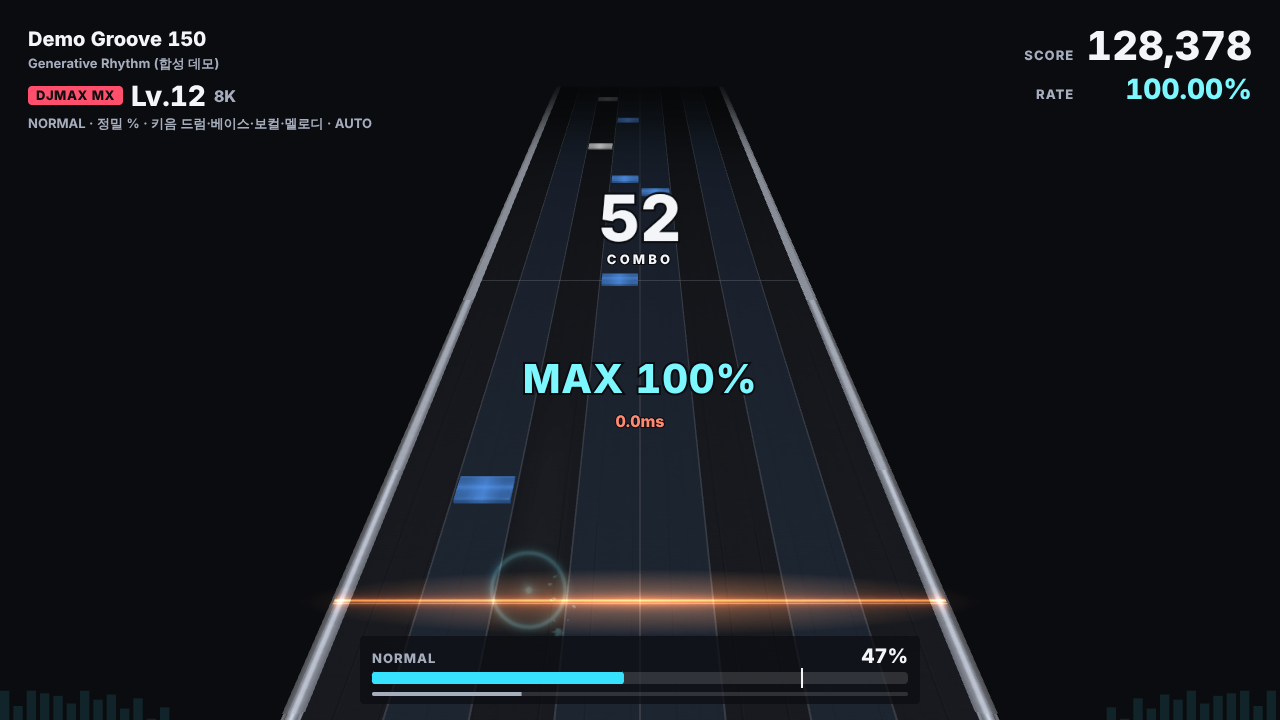
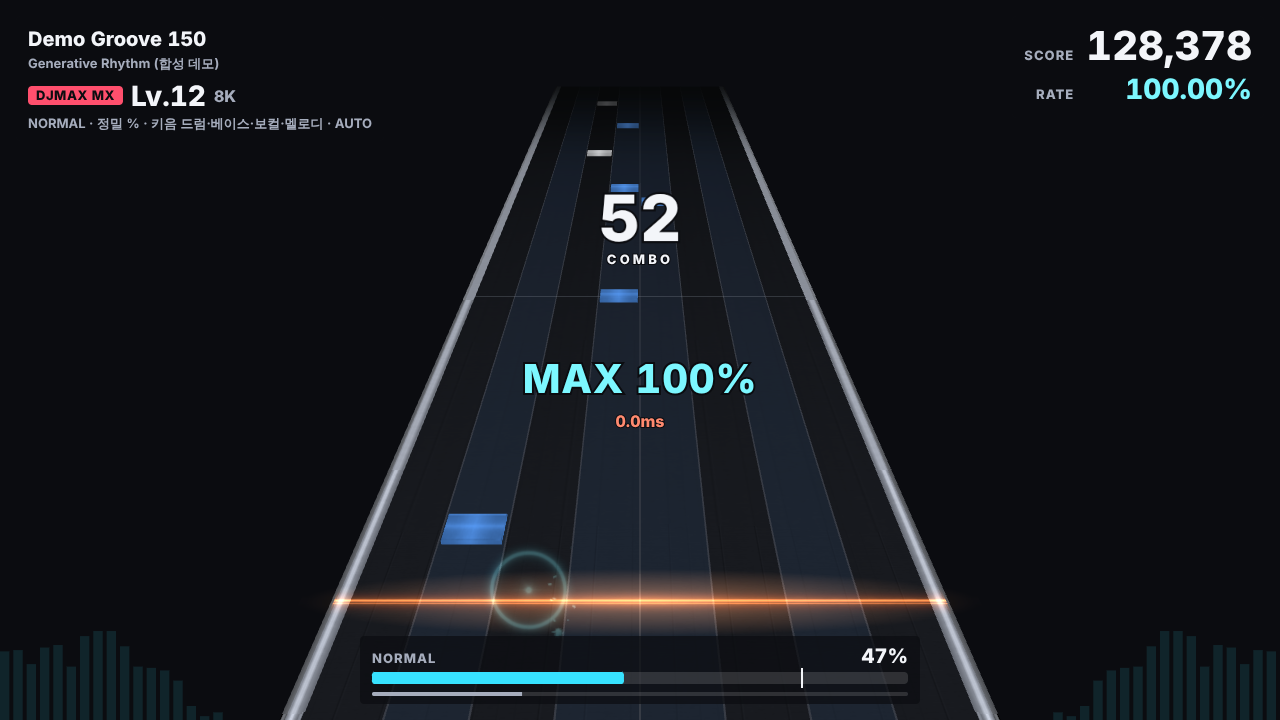
Keep the notes' depth faint
The shading only hints at a block now: the walls are 15-25% darker than the
top (they were 40-75%), the top darkens 5% toward its far edge (18%) and its
near edge catches a faint highlight (+0.06, was +0.3). The play and skin
screenshots are captured again.

Claude-Session: https://claude.ai/code/session_01UknEaCGNo4CuJ2Lwvtgahg

diff --git a/client/src/render/TrackRenderer.ts b/client/src/render/TrackRenderer.ts
@@ -32,11 +32,17 @@ const EFFECT_MS = 240;
 const COVER_Y = 0.05;
 /** Textured note walls take the texture this far inside its edge (its very edge is the transparent outline). */
 const WALL_INSET = 0.3;
-/** Note shading: light from above and a little from the camera's side lights the top, leaves the front in half shade and the sides dark. */
+/**
+ * Note shading, kept faint (just enough to read the notes as blocks): light from above and a
+ * little from the camera's side lights the top fully, the front a little less and the sides least.
+ */
 const NOTE_LIGHT = new THREE.Vector3(0, 1, 0.45).normalize();
-const NOTE_AMBIENT = 0.36;
-/** A box note's top catches the light on its near edge, like a bevel. */
-const NOTE_RIM = 0.3;
+const NOTE_AMBIENT = 0.82;
+/** The top darkens this much toward its far edge, the walls toward the track. */
+const NOTE_TOP_FALLOFF = 0.05;
+const NOTE_WALL_FALLOFF = 0.08;
+/** A box note's top catches a little light on its near edge, like a bevel. */
+const NOTE_RIM = 0.06;
 /** Clip-plane constant that keeps everything (plane effectively disabled). */
 const FAR_AWAY = 1e4;
 
@@ -788,10 +794,10 @@ function createNoteGeometry(shape: Skin['noteShape'], topUv: boolean): THREE.Buf
     let shade = NOTE_AMBIENT + (1 - NOTE_AMBIENT) * Math.max(0, n.dot(NOTE_LIGHT));
     if (n.y > 0.5) {
       const near = (pos.getZ(i) - min.z) / (max.z - min.z); // 0 far … 1 near
-      shade *= 0.82 + 0.18 * near;
+      shade *= 1 - NOTE_TOP_FALLOFF * (1 - near);
       if (shape !== 'round' && near > 1 - 1e-6) shade += NOTE_RIM;
     } else if (n.y > -0.5) {
-      shade *= 0.7 + 0.3 * ((pos.getY(i) - min.y) / (max.y - min.y)); // darker where the wall meets the track
+      shade *= 1 - NOTE_WALL_FALLOFF * (1 - (pos.getY(i) - min.y) / (max.y - min.y)); // darker where the wall meets the track
     }
     colors.set([shade, shade, shade], i * 3);
   }
